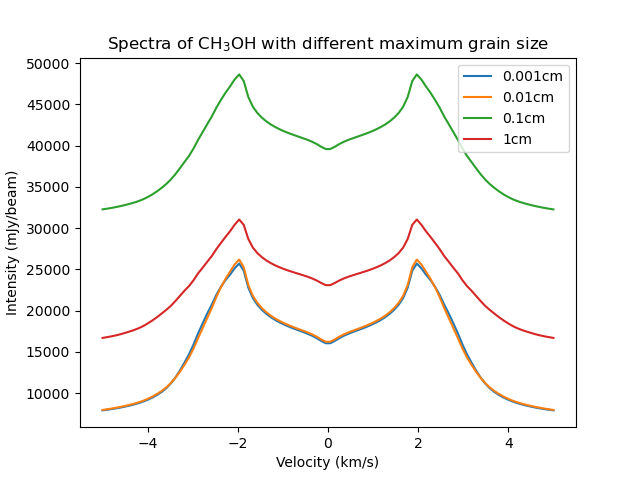
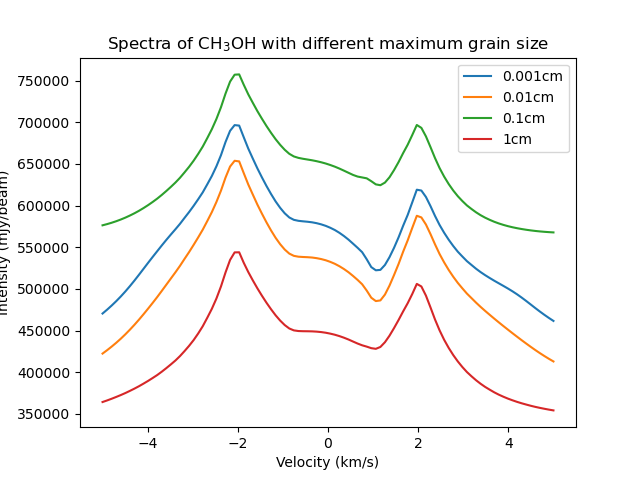
Backup

diff --git a/plot_channel_map.py b/plot_channel_map.py
@@ -30,7 +30,7 @@ from problem_setup import problem_setup
 
 
 # problem_setup(a_max=0.1, Mass_of_star=0.14*Msun, Accretion_rate=0.14e-5*Msun/yr, Radius_of_disk=30*au, pancake=False)
-# os.system(f"radmc3d spectrum incl 0 phi 0 iline 1 widthkms 5 vkms 0 linenlam 100")
+# os.system(f"radmc3d spectrum incl 0 phi 0 iline 240 widthkms 5 vkms 0 linenlam 100")
 # s = readSpectrum('spectrum.out')
 # peak_lam = s[np.argmax(s, axis=1),0]
 # v_axis = cc*((s[:,0]**2/peak_lam**2-1)/(s[:,0]**2/peak_lam**2+1))*1e-5
@@ -38,7 +38,7 @@ from problem_setup import problem_setup
 
 # for deg in [30, 60, 90]:
 #     # problem_setup(a_max=0.1, Mass_of_star=0.14*Msun, Accretion_rate=0.14e-5*Msun/yr, Radius_of_disk=30*au)
-#     os.system(f"radmc3d spectrum incl {deg} phi 0 iline 1 widthkms 5 vkms 0 linenlam 100")
+#     os.system(f"radmc3d spectrum incl {deg} phi 0 iline 240 widthkms 5 vkms 0 linenlam 100")
 #     s = readSpectrum('spectrum.out')
 #     plt.plot(v_axis-5, 1e26*s[:,1], label=f'{deg}'+r'$^\circ$')
 # plt.legend()
@@ -68,15 +68,15 @@ from problem_setup import problem_setup
 # a=readImage()
 # plotImage(a,log=True,cmap='gist_ncar',au=True,arcsec=False, dpc=140, bunit='snu', maxlog=6)
 
-problem_setup(a_max=0.1, Mass_of_star=0.14*Msun, Accretion_rate=0.14e-5*Msun/yr, Radius_of_disk=30*au, pancake=False)
-v_list = np.linspace(-5, 5, 11, endpoint=True)
-# os.system("radmc3d image incl 70 iline 1 vkms -5")
-# im = readImage('image.out')
-# print(im.image.shape)
+# problem_setup(a_max=0.1, Mass_of_star=0.14*Msun, Accretion_rate=0.14e-5*Msun/yr, Radius_of_disk=30*au, pancake=False)
+# v_list = np.linspace(-5, 5, 11, endpoint=True)
+# # os.system("radmc3d image incl 70 iline 1 vkms -5")
+# # im = readImage('image.out')
+# # print(im.image.shape)
 
-for v in v_list:
-    os.system(f"radmc3d image incl 90 iline 1 vkms {v}")
-    im = readImage('image.out')
-    # plt.imshow(np.transpose(im.image[:,:,0]),cmap=plt.cm.gist_heat)
-    # plt.show()
-    plotImage(im, arcsec=True, dpc=140., cmap='hot')
+# for v in v_list:
+#     os.system(f"radmc3d image incl 70 iline 240 vkms {v}")
+#     im = readImage('image.out')
+#     # plt.imshow(np.transpose(im.image[:,:,0]),cmap=plt.cm.gist_heat)
+#     # plt.show()
+#     plotImage(im, arcsec=True, dpc=140., cmap='hot')
